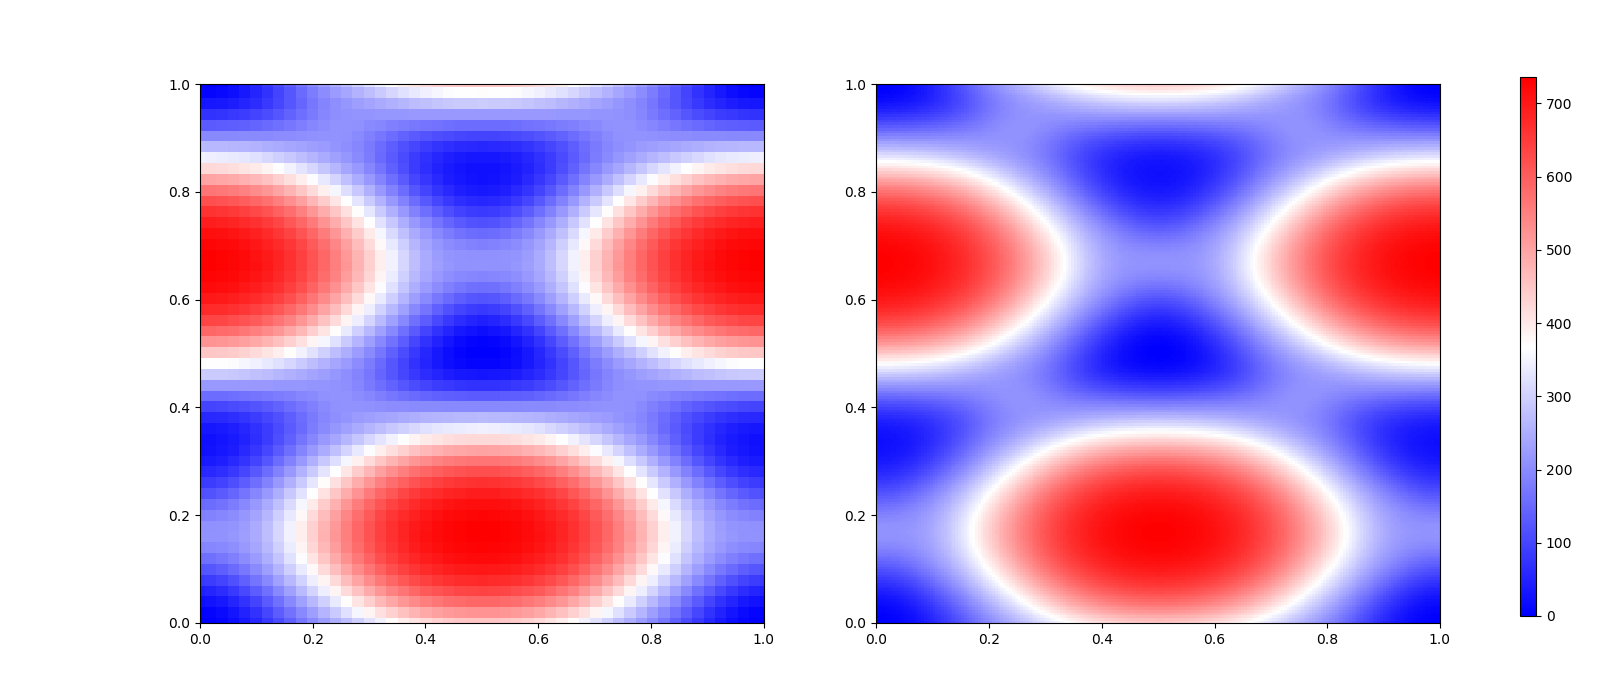
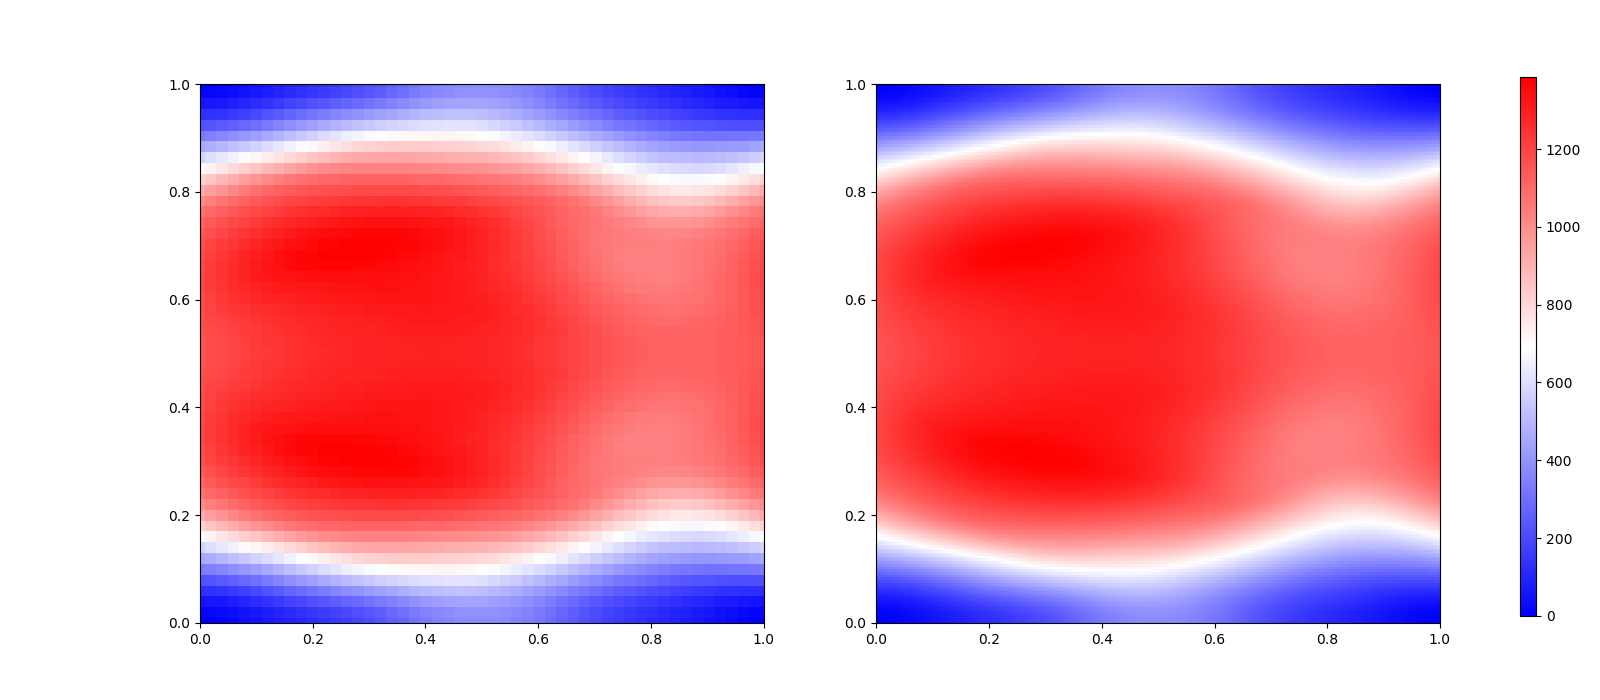
calc testing

diff --git a/iprPy/calculations/stacking_fault_multi/calc_stacking_fault_multi.py b/iprPy/calculations/stacking_fault_multi/calc_stacking_fault_multi.py
@@ -177,7 +177,10 @@ def stackingfault_map(lammps_command, system, potential, symbols,
         raise ValueError('shiftvector1 must be in cut plane')
     if shiftvector2[cutindex] != 0.0:
         raise ValueError('shiftvector2 must be in cut plane')
-    
+
+    #Test for lammps dump_modify version to use
+    dump_modify_version = iprPy.tools.lammps_version.dump_modify(lammps_command)
+        
     #Create free surface parallel to cut plane
     system.pbc = [True, True, True]
     system.pbc[cutindex] = False
@@ -186,10 +189,15 @@ def stackingfault_map(lammps_command, system, potential, symbols,
     results_list = []
 
     #Build calc_kwargs dictionary (these don't change)
-    calc_kwargs = {'mpi_command': mpi_command, 'keepatomfiles':keepatomfiles,
-                   'etol':etol, 'ftol':ftol, 
-                   'maxiter':maxiter, 'maxeval':maxeval, 
-                   'dmax':dmax, 'planeaxis':planeaxis}
+    calc_kwargs = {'mpi_command': mpi_command, 
+                   'keepatomfiles':keepatomfiles,
+                   'etol':etol, 
+                   'ftol':ftol, 
+                   'maxiter':maxiter, 
+                   'maxeval':maxeval, 
+                   'dmax':dmax, 
+                   'planeaxis':planeaxis,
+                   'dump_modify_version':dump_modify_version}
     
     #Loop over all shift combinations
     shifts1, shifts2 = np.meshgrid(np.linspace(0, 1, numshifts1), 
@@ -234,7 +242,7 @@ def sfworker(lammps_command, system, potential, symbols,
              shiftvector1, shiftvector2, shift1, shift2, topmap,
              mpi_command=None, keepatomfiles=True,
              etol=0.0, ftol=0.0, maxiter=100, maxeval=1000, dmax=0.01,
-             planeaxis='z'):
+             planeaxis='z', dump_modify_version=0):
     """Workers for running relax_sfsystem"""
     
     if   planeaxis == 'x': cutindex = 0
@@ -261,21 +269,22 @@ def sfworker(lammps_command, system, potential, symbols,
     stackingfault = relax_sfsystem(lammps_command, isystem, potential, symbols, 
                                    run_directory=dirname, mpi_command=mpi_command,
                                    etol=etol, ftol=ftol, maxiter=maxiter, 
-                                   maxeval=maxeval,dmax=dmax, planeaxis=planeaxis)
+                                   maxeval=maxeval,dmax=dmax, planeaxis=planeaxis,
+                                   dump_modify_version=dump_modify_version)
     
     #Extract results from system with stacking fault
     stackingfaultsystem = am.load('atom_dump', stackingfault['finaldumpfile'])[0]
     results_dict['potentialenergy'] = stackingfault['potentialenergy']
-    os.remove(os.path.join(dirname, 'atom.0'))
-    os.remove(stackingfault['finaldumpfile']+'.json')
+    remove_file(os.path.join(dirname, 'atom.0'))
+    remove_file(stackingfault['finaldumpfile']+'.json')
     
     if keepatomfiles is True:
         shutil.move(stackingfault['finaldumpfile'], os.path.join(dirname, 'stackingfault.dump'))
     elif keepatomfiles is False:
-        os.remove(os.path.join(dirname, 'system.dat'))
-        os.remove(stackingfault['finaldumpfile'])
-        
-    
+        remove_file(os.path.join(dirname, 'system.dat'))
+        remove_file(stackingfault['finaldumpfile'])
+
+                
     #Find center of mass difference in top/bottom planes
     if   planeaxis == 'x': cutindex = 0
     elif planeaxis == 'y': cutindex = 1  
@@ -284,11 +293,21 @@ def sfworker(lammps_command, system, potential, symbols,
                                     stackingfaultsystem.atoms.view['pos'][~topmap, cutindex].mean())
     
     return results_dict
+
+def remove_file(fname):
+    """Add retry capability to remove these files (after seeing issues)"""
+    for retry in xrange(100):
+        try:
+            os.remove(fname)
+            break
+        except:
+            pass
+
     
 def relax_sfsystem(lammps_command, system, potential, symbols, 
                    run_directory='', mpi_command=None, 
                    etol=0.0, ftol=0.0, maxiter=100, maxeval=1000, dmax=0.01,
-                   planeaxis=None):
+                   planeaxis=None, dump_modify_version=0):
     """
     Sets up and runs the min LAMMPS script for statically relaxing a system
     """
@@ -326,6 +345,12 @@ def relax_sfsystem(lammps_command, system, potential, symbols,
     lammps_variables['maxeval'] = maxeval
     lammps_variables['dmax'] = uc.get_in_units(dmax, lammps_units['length'])
     
+    #Set dump_modify format based on dump_modify_version
+    if dump_modify_version == 0:
+        lammps_variables['dump_modify_format'] = 'float %.13e'
+    elif dump_modify_version == 1:
+        lammps_variables['dump_modify_format'] = '"%i %i %.13e %.13e %.13e %.13e"'
+        
     #Write lammps input script
     template_file = 'sfmin.template'
     lammps_script = os.path.join(run_directory, 'sfmin.in')

diff --git a/iprPy/highthroughput/runner.py b/iprPy/highthroughput/runner.py
@@ -27,8 +27,10 @@ def runner(dbase, run_directory, orphan_directory=None):
     
     #Define runner log file
     d = datetime.datetime.now()
-    log_file = os.path.join(os.path.dirname(iprPy.rootdir), 'runner-logs', 
-               '%04i-%02i-%02i-%02i-%02i-%06i.log' % (d.year, d.month, d.day, d.minute, d.second, d.microsecond))
+    runner_log_dir = os.path.join(os.path.dirname(iprPy.rootdir), 'runner-logs')
+    if not os.path.isdir(runner_log_dir):
+        os.makedirs(runner_log_dir)
+    log_file = os.path.join(runner_log_dir, '%04i-%02i-%02i-%02i-%02i-%06i.log' % (d.year, d.month, d.day, d.minute, d.second, d.microsecond))
     
     #Set default orphan_directory
     if orphan_directory is None:

diff --git a/iprPy/calculations/dynamic_elastic/calc_dynamic_elastic.py b/iprPy/calculations/dynamic_elastic/calc_dynamic_elastic.py
@@ -211,7 +211,13 @@ def dynamic_stress(lammps_command, system, potential, symbols,
     lammps_variables['runsteps'] = runsteps
     lammps_variables['restartsteps'] = restartsteps
     lammps_variables['dumpsteps'] = dumpsteps
-    lammps_variables['stressterm'] = iprPy.tools.test_lammps_stress_version(lammps_command)
+    
+    #Check LAMMPS compute stress version
+    compute_stress_version = iprPy.tools.lammps_version.compute_stress(lammps_command)
+    if compute_stress_version == 0:
+        lammps_variables['stressterm'] = 'NULL'
+    elif compute_stress_version == 1:
+        lammps_variables['stressterm'] = ''
     
     #Write lammps input script
     template_file = 'full_relax.template'

diff --git a/iprPy/calculations/surface_energy/calc_surface_energy.py b/iprPy/calculations/surface_energy/calc_surface_energy.py
@@ -134,6 +134,13 @@ def relax_system(lammps_command, system, potential, symbols, mpi_command=None,
     lammps_variables['maxeval'] = maxeval
     lammps_variables['dmax'] = uc.get_in_units(dmax, lammps_units['length'])
     
+    #Set dump_modify format based on dump_modify_version
+    dump_modify_version = iprPy.tools.lammps_version.dump_modify(lammps_command)
+    if dump_modify_version == 0:
+        lammps_variables['dump_modify_format'] = 'float %.13e'
+    elif dump_modify_version == 1:
+        lammps_variables['dump_modify_format'] = '"%i %i %.13e %.13e %.13e %.13e"'    
+    
     #Write lammps input script
     template_file = 'min.template'
     lammps_script = 'min.in'

diff --git a/iprPy/calculations/dynamic_relax/calc_dynamic_relax.py b/iprPy/calculations/dynamic_relax/calc_dynamic_relax.py
@@ -118,6 +118,13 @@ def full_relax(lammps_command, system, potential, symbols,
     lammps_variables['runsteps'] = runsteps
     lammps_variables['dumpsteps'] = dumpsteps
     
+    #Check LAMMPS compute stress version
+    compute_stress_version = iprPy.tools.lammps_version.compute_stress(lammps_command)
+    if compute_stress_version == 0:
+        lammps_variables['stressterm'] = 'NULL'
+    elif compute_stress_version == 1:
+        lammps_variables['stressterm'] = ''
+    
     #Write lammps input script
     template_file = 'full_relax.template'
     lammps_script = 'full_relax.in'

diff --git a/website-generation/stacking_fault_multi.py b/website-generation/stacking_fault_multi.py
@@ -27,7 +27,7 @@ for record in dbase.iget_records(style='calculation-generalized-stacking-fault')
     record_df.append(record.todict())
 record_df = pd.DataFrame(record_df)
 
-condition1 = record_df.stackingfault_id == 'A1--Cu--fcc--111sf'
+condition1 = record_df.stackingfault_id == 'A2--W--bcc--112sf'
 condition2 = record_df.status == 'finished'
 
 lookie_record_df = record_df[condition1 & condition2]
